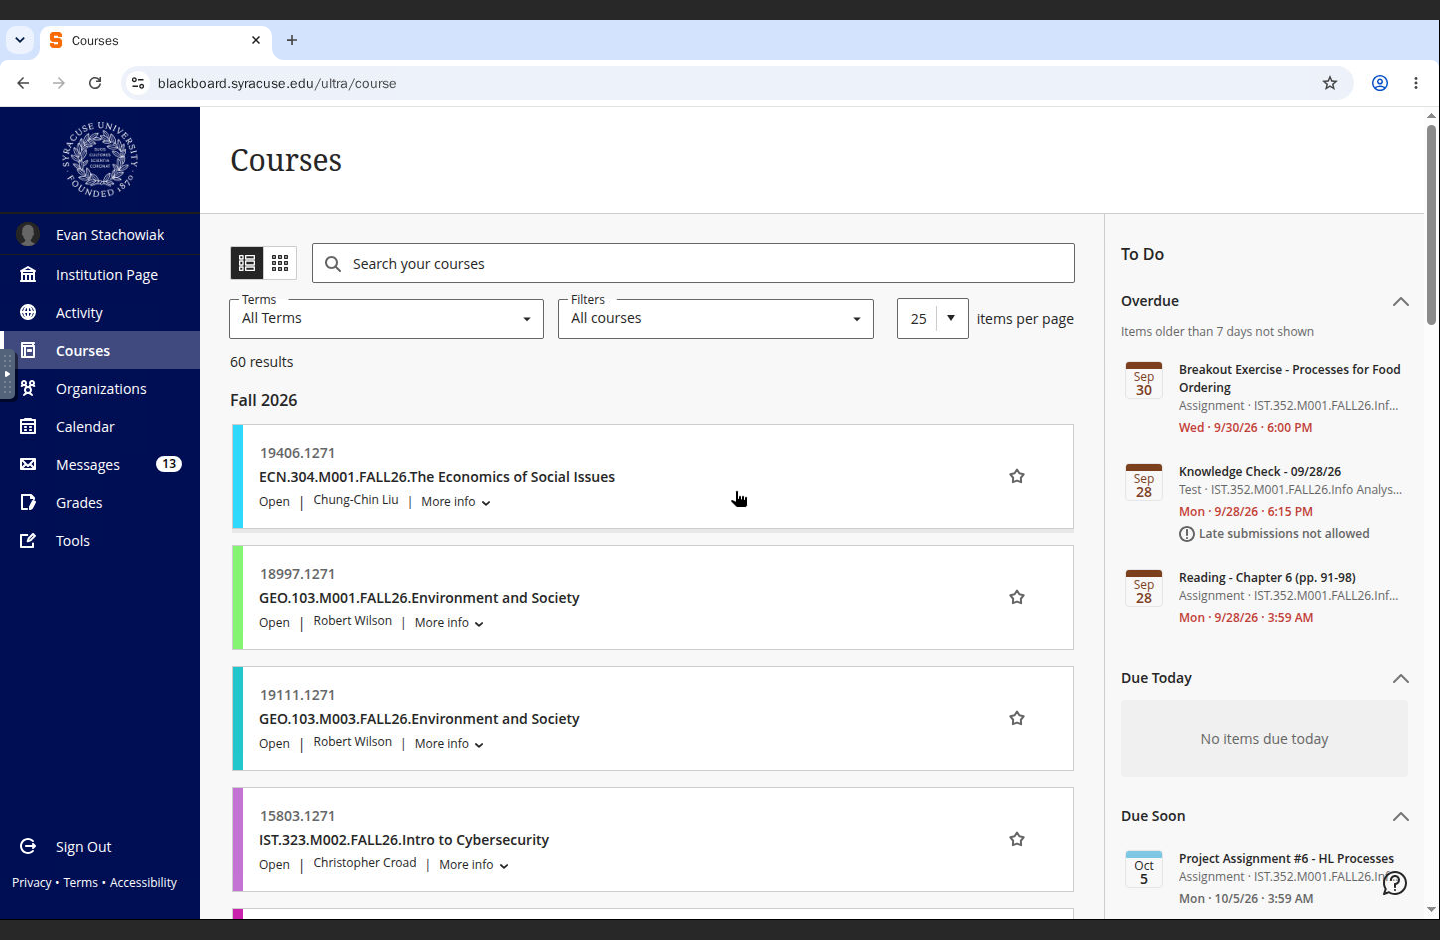
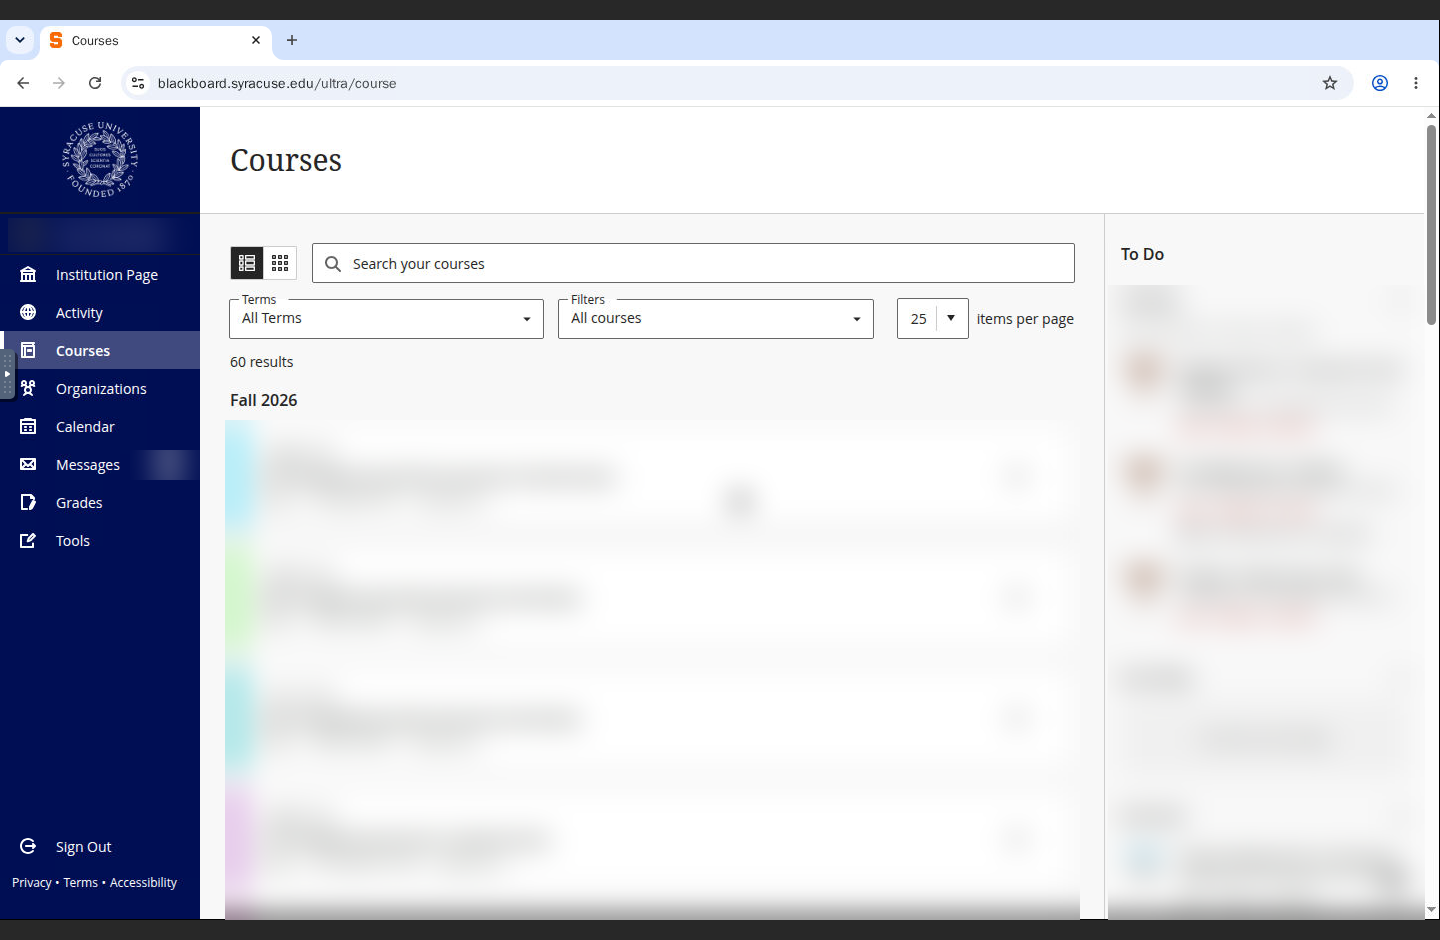
docs(14-T4): spike PASS; no overnight waits; walk-14 screenshots blurred
Stack, 2026-10-03: no waiting on a night to finish the phase, and blur the
screenshots. 82b gets the verdict; the brief strikes the overnight log, the
night-asleep A6 and the 'across at least one night' acceptance.

diff --git a/docs/planning/sprint-2/briefs/100_PHASE14_containers.md b/docs/planning/sprint-2/briefs/100_PHASE14_containers.md
@@ -72,6 +72,11 @@ the Contract below and as its own DECISIONS row of 2026-10-03:
   queue-only`) first sees an open item with that ref, it opens the login page once in the default browser,
   already unlocked with the noVNC password read from its file, so Stack only does NetID and Duo. It rides
   the early launcher PR (task 18), merged before A1.
+* **No overnight waits (Stack, 2026-10-03):** "I do not want to have to wait for the nightly ingest to finish
+in order to complete this phase." The spike's verdict reads the login and the restart, not an overnight log;
+A6 proves catch-up by a restart with a stale `last_run_at`, not a night asleep; the acceptance sitting and
+the cut-over run in one sitting. Since the morning login is manual, the login's overnight lifetime no longer
+decides anything.
 * **Open item 2 changes:** `KEEPALIVE_MINUTES` becomes the login check while the login is alive, default 60
   (each check is a request from the browser's session, so it also touches it); `LOGIN_WATCH_MS = 60000` is
   the check while it is dead, so the morning login is seen within a minute.
@@ -87,7 +92,8 @@ today is a Claude session following `skills/bb-sync` prose in a Windows browser 
 and the service key sits in two places.
 
 Sprint 2 is the time because the phase needs calendar time before it needs code. Task 0's Duo window is 14
-days, the spike is a gate, and the acceptance runs across at least one night. It is the sprint's long pole
+days, the spike is a gate, and the acceptance ran across at least one night until 2026-10-03, when Stack
+struck every overnight wait (the amendment at the top). It is the sprint's long pole
 (94 §2 rule 4; B-4, **PROVISIONAL**). The ground has moved since 82 was written. The vault is now two git
 realms, and the 2026-09-24 row supersedes C-4. Migration 090 is taken, so the role is 091 (P-33). Phase 13
 was skipped. SU signs in through Entra SAML, not Shibboleth (P-93). Playwright ships a seccomp profile, so
@@ -450,7 +456,7 @@ into the 091 unit's login-trigger bullet above.
   * `.gitignore`: `local_cache/`, `secrets/`
   * the one blob `git add --renormalize .` rewrites under the new `.gitattributes`:
     `fall2026 courses + context.txt`, the only `i/crlf` file `git ls-files --eol` shows at a5042fa
-  * `docker/sync/spike/`: deleted in task 15, once 82b holds the overnight log
+  * `docker/sync/spike/`: deleted in task 15, once 82b holds the verdict
   * launcher branch: `desktop/src/core/config.ts`, `desktop/src/main/index.ts`,
     `desktop/test/unit/config.test.ts`
 
@@ -518,8 +524,8 @@ widened for Supabase, Vercel, GitHub, npm, PyPI and astral.sh; `statsig.anthropi
   * R-97 (`/inbox-apply`'s vault path) and R-98 (checkpoint redaction) are 20's.
   * If 20's P-110 helper merges first, task 22 changes that helper's default instead of `constants.mjs`.
   * The container-writer line of R-100 is proven here, in acceptance step A6.
-  * The harness's live realm nights (Phase C) and the R-B4 PAT test pass before any container writes to a
-    realm.
+  * The R-B4 PAT test passes before any container writes to a realm. The harness's live realm nights
+    (Phase C) were waived by Stack on 2026-09-30 (DECISIONS, Phase 20).
 * **Phase 21** (94 §3) reuses the umbrella, `secrets/`, the subscription-token pattern and the
   `bb2dash-mcp` image, and puts a `workspace_runner` role on `sync_runner`'s shape.
 * **Sprint 1 objects.**
@@ -636,7 +642,8 @@ SOP gates, each on its own PR:
       without his word in that conversation. Nothing in `web/` changes, so no Vercel preview is owed; the
       visual proofs are `walks/walk-14/`, shown to Stack before any merge.
 
-**Stack's acceptance script** (a fresh rebuild on this laptop, across at least one night; each step ticks
+**Stack's acceptance script** (a fresh rebuild on this laptop, walked in one sitting with no overnight wait,
+Stack 2026-10-03; each step ticks
 `- [x] A<n>` in 82a with its evidence, and a struck step is written `- [~] A<n> struck (B-<n>)`):
 
 1. **A1.** In WSL, clone bb2dash, agentic-harness and bb2dash-stack into `~/dev`. Copy `secrets.example/` to
@@ -650,8 +657,10 @@ SOP gates, each on its own PR:
    already unlocked; after NetID and Duo, a sync runs without pressing Sync, and the Inbox's login item is
    archived.
 6. **A6** (struck if B-49 is answered "no"). `just ingest-now`, then a `rag` search finds a note written
-   that day. After a night asleep, the 03:00 job ran on wake, and the jobs container pushed its notes to the
-   realms.
+   that day, and the jobs container pushed its notes to the realms with `REALM_SYNC=apply`. Catch-up is
+   shown the same day, not after a night: with `nightly`'s `last_run_at` in `/state/scheduler.json` set to
+   the previous day, `docker compose restart harness-jobs` runs the nightly once at start and the log shows
+   it (2026-10-03: no overnight wait).
 7. **A7** (struck if B-48 drops the dev container). `just dev`, then `claude`, then `/bb2dash-pm` loads. Both
    MCP servers answer, memory is there, a worktree is created and a test suite runs.
 8. **A8** (struck if B-49 is answered "no"). Task Scheduler shows neither `AgenticHarness-NightlyIngest` nor
@@ -662,9 +671,9 @@ SOP gates, each on its own PR:
 1. The containers are proven (A1–A4).
 2. `syncLauncher` goes to `queue-only`. This is reversible and is already set for A4, so the skill and the
    runner never race a claim.
-3. Both Task Scheduler jobs are *disabled* before the container scheduler's first night (B-49,
+3. Both Task Scheduler jobs are *disabled* before the container scheduler first runs a job (B-49,
    **PROVISIONAL**).
-4. Nights pass (A6), then A7.
+4. A6, then A7, in the same sitting.
 5. On acceptance, both jobs are unregistered (A8) and A9 is walked.
 6. DECISIONS records the cut-over.
 
@@ -700,7 +709,8 @@ PASS, with Phases 15, 18 and 19 on `main`. W-57 and W-58 may be cut after task 1
 | 1 | **Freeze.** Record Stack's B answers here; re-cut every task the "Stack's calls" table names where an answer differs. Write eleven DECISIONS rows, each beginning `**Phase 14 freeze:`: (1) "Contract frozen" — brief 100 supersedes 82's Contract; the 2026-09-16 research calls adopted (deterministic runner, B-43; x11vnc + noVNC, P-103; seccomp, not `--no-sandbox`, P-102; internal-timer scheduler; local builds; subscription token); the build narrows 2026-09-09 "Docker: skipped" as the Direction row did; B-4, B-46, B-47 (Entra CA / KMSI, P-93); and the agentic-harness `main` SHA W-57 is cut from, written `agentic-harness main <sha>` (the base of task 20's and the DoD's harness test-file counts); (2) "owner-claimed" amended for `sync_runner`; (3) step 0 amended (B-44); (4) the file-pull row restated for `sync_file_stored`; (5) one PR per repo plus the launcher PR, `bb2dash-stack` and `just` (B-51); (6) D-20 narrowed to image registry and image-build CI, the harness pgvector store allowed (P-50); (7) B-48; (8) B-49; (9) B-50; (10) the login item's self-close, a third way into `archived` with 114's `closed_itself` shape, shared with R-56 and stated as the exception to SKILL.md's "Never resolve an `attention_items` row" rule; (11) 094 replays after 100 (only while open item 6 keeps 094). Separately, and only if B-45 adopts it, the R-87 reversal row in the "Reversal adopted (Requirements v2 §5 …)" form, naming v2 §5's still-declined "scheduled or in-Electron crawls (Duo)"; it does not begin `**Phase 14 freeze:`. Put the superseded-by line under 82's title (P-33, P-60) | R-95, P-33, P-34, P-39, P-50, P-60, P-93, P-102, P-103 | PM | (d) `grep -c "Phase 14 freeze:" project-state/DECISIONS.md` → 11 (10 if open item 6 is answered no, or if B-42's answer leaves migration 100 unwritten: **PROVISIONAL, B-42**); `grep -cE "Phase 14 freeze: Contract frozen.*agentic-harness main [0-9a-f]{7,40}" project-state/DECISIONS.md` → 1; `git diff main -- project-state/DECISIONS.md \| grep -c "^+.*Reversal adopted (Requirements v2 §5.*scheduled or in-Electron crawls (Duo)"` → 1 if B-45 adopts, 0 otherwise; `grep -c "briefs/100_PHASE14_containers.md" docs/planning/sprint-2/82_PHASE14_containers.md` → 1 | — |
 | 2 | Freeze the parity query set before W-55 is cut. Q1: current totals of `assignments`, `readings`, `bb_content`, `announcements`, `bb_files`, `bb_attempts`. Q2: `bb_raw` rows per kind for a run. Q3: `bb_attempts` per run. Q4: `bb_gradebook` per run. Q5: the two runs' `summary` seen counters. Q6: each run's status and stages. The baseline is run 62 (26 attempts, 58 gradebook rows, 9 `bb_raw`; re-read on prod 2026-09-27: request 39 → `sync_runs` 62, run `3b5174b8`, started 2026-09-23, still the last sync request) | R-85, P-40 | PM | (d) `grep -c "^-- Q[1-6] " docs/planning/sprint-2/verification/82a_parity_queries.sql` → 6 | — |
 | 3 | **Task 0** (B-47: started 2026-09-29 15:25Z, DECISIONS of that date). Once a login is confirmed, idle probes are spawned periodically, self-paced, for as long as the login lives (Stack, 2026-09-29: not an hourly clock); the same profile reopened at about +1/3/7/14 days (Duo remember-me). Each probe is written as a row with its elapsed time, read as an unknown Entra Conditional Access / KMSI policy, not Shibboleth ceilings | R-82, P-93 | Stack + PM | (d) `grep -c "^| reopen-" docs/planning/sprint-2/verification/82b_NOVNC_SPIKE.md` → 4; `grep -c "^| probe-" …` → ≥ 5; `grep -c "^Idle lifetime: " …` → 1 || probe-" docs/planning/sprint-2/verification/82b_NOVNC_SPIKE.md` → 8 | "I measured how long my Blackboard login lives" |
-| 4 | **Spike (gate).** Build the pinned Playwright image with Xvfb, x11vnc and noVNC under `docker/sync/seccomp_profile.json`, the `bb-profile` volume, `127.0.0.1:6080` and `novnc_password`. `session-age.mjs` launches Chromium with the Contract's call, `launchPersistentContext(<bb-profile>, { headless: false, chromiumSandbox: true })`. Stack logs in with Duo; then `docker compose restart sync`; then `session-age.mjs` logs overnight. **Sandbox rule (P-102):** if Chromium starts under the profile and the `/proc` scan below counts 0 `--no-sandbox` while `session-age.mjs` runs, 82b gets the line `Sandbox: seccomp`; if the launch fails under the profile (the `launchPersistentContext` promise rejects, or the renderer crashes before Blackboard's page loads), its first error line goes into 82b, the spike relaunches with `chromiumSandbox: false`, and 82b gets `Sandbox: --no-sandbox fallback`. The verdict line, the `Sandbox:` line and the `LOGIN_HOSTS:` line are all written in `docs/planning/sprint-2/verification/82b_NOVNC_SPIKE.md`. The verdict and a DECISIONS row follow: PASS, or re-plan on the `storageState` fallback | R-82, P-38, P-102, P-103 | PM + Stack | (c) `docs/planning/sprint-2/walks/walk-14/01-novnc-duo-login.png`: the address bar reading `127.0.0.1:6080/vnc.html` and, inside the noVNC view, Blackboard Ultra's page heading "Courses" after Duo; `02-after-restart.png`: the same address and the same "Courses" heading after `docker compose restart sync`, with no sign-in form in view. (d) `docker compose port sync 6080` → `127.0.0.1:6080`; `grep -c "^Verdict: PASS$" docs/planning/sprint-2/verification/82b_NOVNC_SPIKE.md` → 1; in the same file `grep -c "^LOGIN_HOSTS: .*login\.microsoftonline\.com" …` → 1 (the one line listing the hosts the Duo login passed through) and `grep -cE "^Sandbox: (seccomp\|--no-sandbox fallback)$" …` → 1; `grep -c "chromiumSandbox: true" docker/sync/spike/session-age.mjs` → 1 when 82b reads `Sandbox: seccomp` (0 under the fallback); while `session-age.mjs` runs, `docker compose exec sync sh -c 'for f in /proc/[0-9]*/cmdline; do tr "\0" " " < "$f"; echo; done' \| grep -c -- "--no-sandbox"` → 0 before `Sandbox: seccomp` is written, the count pasted into 82b under that line (≥ 1 under the fallback) | "I logged in to Blackboard inside a container" |
+| 4 | **Spike (gate).** Build the pinned Playwright image with Xvfb, x11vnc and noVNC under `docker/sync/seccomp_profile.json`, the `bb-profile` volume, `127.0.0.1:6080` and `novnc_password`. `session-age.mjs` launches Chromium with the Contract's call, `launchPersistentContext(<bb-profile>, { headless: false, chromiumSandbox: true })`. Stack logs in with Duo; then `docker compose restart sync` (the overnight log was struck on 2026-10-03: the
+verdict reads the login and the restart). **Sandbox rule (P-102):** if Chromium starts under the profile and the `/proc` scan below counts 0 `--no-sandbox` while `session-age.mjs` runs, 82b gets the line `Sandbox: seccomp`; if the launch fails under the profile (the `launchPersistentContext` promise rejects, or the renderer crashes before Blackboard's page loads), its first error line goes into 82b, the spike relaunches with `chromiumSandbox: false`, and 82b gets `Sandbox: --no-sandbox fallback`. The verdict line, the `Sandbox:` line and the `LOGIN_HOSTS:` line are all written in `docs/planning/sprint-2/verification/82b_NOVNC_SPIKE.md`. The verdict and a DECISIONS row follow: PASS, or re-plan on the `storageState` fallback | R-82, P-38, P-102, P-103 | PM + Stack | (c) `docs/planning/sprint-2/walks/walk-14/01-novnc-duo-login.png`: the address bar reading `127.0.0.1:6080/vnc.html` and, inside the noVNC view, Blackboard Ultra's page heading "Courses" after Duo; `02-after-restart.png`: the same address and the same "Courses" heading after `docker compose restart sync`, with no sign-in form in view. (d) `docker compose port sync 6080` → `127.0.0.1:6080`; `grep -c "^Verdict: PASS$" docs/planning/sprint-2/verification/82b_NOVNC_SPIKE.md` → 1; in the same file `grep -c "^LOGIN_HOSTS: .*login\.microsoftonline\.com" …` → 1 (the one line listing the hosts the Duo login passed through) and `grep -cE "^Sandbox: (seccomp\|--no-sandbox fallback)$" …` → 1; `grep -c "chromiumSandbox: true" docker/sync/spike/session-age.mjs` → 1 when 82b reads `Sandbox: seccomp` (0 under the fallback); while `session-age.mjs` runs, `docker compose exec sync sh -c 'for f in /proc/[0-9]*/cmdline; do tr "\0" " " < "$f"; echo; done' \| grep -c -- "--no-sandbox"` → 0 before `Sandbox: seccomp` is written, the count pasted into 82b under that line (≥ 1 under the fallback) | "I logged in to Blackboard inside a container" |
 | 5 | Split the id check out of `sync-command.ts` into `desktop/src/core/sync-id.ts`, before any worker is cut | P-42, R-86 | PM | (a) `cd desktop && npx vitest run test/unit/sync-id.test.ts test/unit/sync-command.test.ts test/unit/core-portability.test.ts` → 0 failures; (d) `grep -ci "powershell" desktop/src/core/sync-id.ts` → 0 | — |
 | 6 | Write `db/tests/phase14_091_sync_runner.sql` first, with the assertion list in §Tables and migrations, and add the loader-map entry to `scripts/db-test.mjs` | R-84, R-83, P-104 | W-55 | (a) `node scripts/db-test.mjs --list \| grep -c "phase14_load_crawl_v4.sql + phase14_091_sync_runner.sql"` → 1; `node --test scripts/db-test.test.mjs` → 0 failures; after task 8 has generated the loader and before 091, `node scripts/db-test.mjs --only phase14_091_sync_runner.sql` → `db-test: passed 0, failed 1, units 1`, exit 1, the line copied into `100_W55_VERIFICATION.md`; after tasks 7 and 7a → `db-test: passed 1, failed 0, units 1`, exit 0 | — |
 | 7 | 091: role, `claim_attempts`, the twelve functions and the helper. Dry run in `begin; … rollback;`, apply with `apply_migration` as `091_sync_runner_role`, then Stack sets the password (never in a file) | R-84, P-104 | W-55 | (b) precondition, before the dry run: `select count(*) from supabase_migrations.schema_migrations where name in ('100_db_test_runner_role', '135_sync_run_open_at_claim', '136_transform_tick_register_first', '137_sync_status_run_state')` → 4 (0 on 2026-09-27; 3 if B-42's answer leaves migration 100 unwritten, **PROVISIONAL, B-42**) and `select count(*) from pg_proc p join pg_namespace n on n.oid = p.pronamespace where n.nspname = 'public' and p.prosecdef and has_function_privilege('public', p.oid, 'execute')` → 0 (0 on 2026-09-27; the twelve-name check below relies on it). After the apply: `select string_agg(p.proname, ',' order by p.proname) from pg_proc p join pg_namespace n on n.oid = p.pronamespace where n.nspname = 'public' and p.prosecdef and has_function_privilege('sync_runner', p.oid, 'execute')` → `sync_claim,sync_close,sync_enqueue,sync_file_stored,sync_file_worklist,sync_login_ok,sync_login_required,sync_next,sync_register_run,sync_requeue_orphans,sync_run_outcome,sync_sweep_stale`; `select count(*) from pg_class c join pg_namespace n on n.oid = c.relnamespace where n.nspname = 'public' and c.relkind in ('r','v','m','p') and has_table_privilege('sync_runner', c.oid, 'select,insert,update,delete')` → 0; `select count(*) from pg_proc p join pg_namespace n on n.oid = p.pronamespace where n.nspname = 'public' and p.proname = any (array['sync_next','sync_claim','sync_requeue_orphans','sync_register_run','sync_run_outcome','sync_file_worklist','sync_file_stored','sync_close','sync_sweep_stale','sync_enqueue','sync_login_ok','sync_login_required','sync_login_sync_due']) and (has_function_privilege('authenticated', p.oid, 'execute') or has_function_privilege('anon', p.oid, 'execute'))` → 0 (a `like 'sync\_%'` filter would also catch `sync_change_lines`, which 051 grants to `authenticated`); the md5 of the recorded statement equals the repo file's (DoD method). (d) After Stack sets the password, one command with the session-pooler DSN (user `sync_runner.goultdzqcavefcgnifdy`, port 5432) as `BB2DASH_TEST_DB_URL`: `node scripts/db-test.mjs --ping` → `db-test: connected as sync_runner`, exit 0; Stack runs it and the line goes into `100_W55_VERIFICATION.md` | — |

diff --git a/project-state/DECISIONS.md b/project-state/DECISIONS.md
@@ -360,3 +360,5 @@ Running log of design decisions and their reasoning. Append-only; newest last.
 | 2026-10-03 | **The `just` recipes run `docker compose` and `node` directly in the shell they are given; they do not forward into WSL.** Each recipe works the same under `set windows-shell := ["powershell.exe", "-NoLogo", "-Command"]` on Windows and under `sh` on Linux, WSL or macOS. Amends brief 100's "on Windows each recipe forwards into WSL" (P-105); acceptance step A1 can be walked from a Windows checkout or a WSL one. `emstacho-su/bb2dash-stack` was created private on 2026-10-03 by the PM on Stack's word, and `just` 1.58.0 installed for the user with winget. | PM call, 2026-10-03: this laptop has no user WSL distro (only `docker-desktop`), and Docker Desktop's CLI already runs from PowerShell, so forwarding would add a machine step and a second checkout for nothing. Stack, 2026-10-03, on the repo: "You should also be able to create the new repo for me". |
 | 2026-10-03 | **The container's morning sync runs right after Stack's morning login, not on a clock; a manual Duo login every morning is the plan.** The runner checks the Blackboard login when it starts, every minute while it is dead and every 60 minutes while it is alive. The first time each New York day it sees the login alive, it archives the "Blackboard login needed" item and queues one sync through `sync_enqueue('login')`, which queues nothing when a sync already finished `done` that day or one is open. Migration 092 (the 07:00 hour column and cron job) is never written; the trigger `'scheduled'` is dropped. Amends the 2026-10-02 reversal row ("its hour is decided after the spike") and the 2026-09-10 row "Sync cadence: Stack triggers": his login is the trigger. | Stack, 2026-10-03: "we need to plan on a manual login (at the very least 2fa) on at very least the first start up of the day", after saying the stay-signed-in feature "tends to not work"; asked when the morning sync should run, he chose "Right after my morning login". Task 0 put a KMSI=yes login's life at 4–13 h, so a clock-driven 07:00 sync would usually meet a dead login. |
 | 2026-10-03 | **The desktop app opens the container's login page when the login is dead.** Under `syncLauncher = queue-only`, the shell reads the open `sync-login-required` Inbox item on each poller tick and, the first time it sees that item, opens `http://127.0.0.1:6080/vnc.html` once in the default browser, already unlocked with the noVNC password from its file, so Stack only does NetID and Duo. The runner raises the item itself when its own login check finds the login dead (a twelfth `sync_runner` function, `sync_login_required()`), not only when a sync fails. It rides the early `syncLauncher` PR. Amends Phase 12's desktop surface: one more `openExternal` target, loopback only; the noVNC password then appears in the browser's local history. | Stack, 2026-10-03, asked how he should be told the morning login is due: "The app opens the login page". It makes the first start-up of the day the prompt he asked for, without a toast (B-46 stays deferred). |
+| 2026-10-03 | **Phase 14 waits on no night.** The spike's verdict reads the login and the restart, not an overnight log; acceptance step A6 shows the container scheduler's catch-up by restarting `harness-jobs` with yesterday's `last_run_at`, not by a night asleep; Stack's acceptance sitting and the cut-over run in one sitting. Brief 100's "across at least one night" and "Nights pass (A6)" are struck. | Stack, 2026-10-03: "I do not want to have to wait for the nightly ingest to finish in order to complete this phase." The manual morning login (row above) already removed the one question the overnight log answered, and the catch-up rule is unit-tested on a fake clock (task 20). |
+| 2026-10-03 | **The noVNC spike passes (brief 100 task 4, R-82): Blackboard's login lives in a container.** Stack signed in with NetID and Duo through `http://127.0.0.1:6080/vnc.html`; after `docker compose restart sync` the first probe read `users/me 200` with no sign-in form. Chromium runs as `pwuser` under Playwright's seccomp profile with `chromiumSandbox: true` and no `--no-sandbox` (`Sandbox: seccomp`); the one login host was `login.microsoftonline.com`. Record `docs/planning/sprint-2/verification/82b_NOVNC_SPIKE.md`; screenshots `walks/walk-14/01`–`02`, blurred where they show Stack's name, courses, To Do list and message count. W-55 and W-56 may be cut once Phase 19 is on `main`. | Brief 100 task 4's gate: "The verdict and a DECISIONS row follow: PASS, or re-plan on the `storageState` fallback." bb2dash is a public repo, so personal details in walk screenshots are blurred (Stack, 2026-10-03: "blur the ss"); the unblurred originals remain in the branch history of commit b2b42c4. |

diff --git a/docs/planning/sprint-2/verification/82b_NOVNC_SPIKE.md b/docs/planning/sprint-2/verification/82b_NOVNC_SPIKE.md
@@ -100,7 +100,16 @@ feature "tends to not work" for him (DECISIONS 2026-09-16 decision 6 says the sa
 
 LOGIN_HOSTS: login.microsoftonline.com
 
-The `Verdict:` line is written after the overnight log.
+**Verdict, 2026-10-03.** Stack struck the overnight log the same day ("I do not want to have to wait for the
+nightly ingest to finish in order to complete this phase"), and the morning login is manual from now on
+(DECISIONS 2026-10-03), so the login's overnight lifetime no longer decides anything. What the spike had to
+show stands: a Blackboard login made through noVNC lives in the container's `bb-profile` volume, survives
+`docker compose restart sync` (`users/me 200` on the new run's first probe, no sign-in form), and Chromium
+runs as `pwuser` under Playwright's seccomp profile with its sandbox on (0 `--no-sandbox`). The fallback
+(`storageState`, open item 5) is not needed. Screenshots `walk-14/01` and `/02` are blurred where they show
+Stack's name, his courses, his To Do list and his message count (Stack, 2026-10-03: "blur the ss").
+
+Verdict: PASS
 
 Reading the numbers into the phase (brief 100 open item 1): `KEEPALIVE_MINUTES` and B-45's hour stay at
 their provisional values until the idle series has ended and the four reopen rows are filled; the
